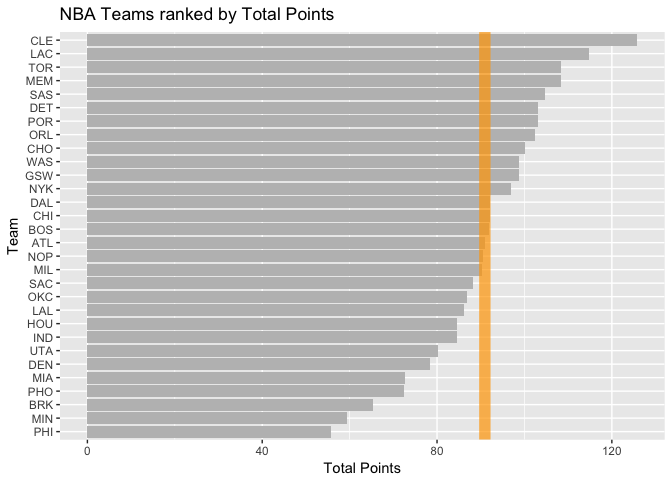
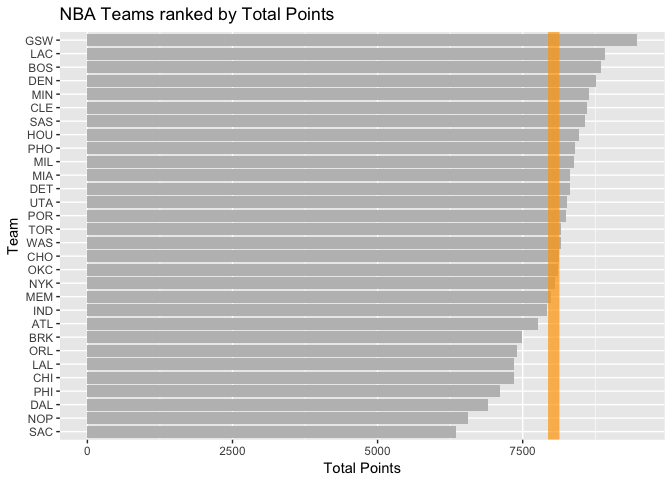
Finished hw03

diff --git a/hw03/report/hw03-Matt-Brennan.md b/hw03/report/hw03-Matt-Brennan.md
@@ -107,7 +107,7 @@ ggplot(teams, aes(reorder(team, salary), salary)) + geom_bar(stat = 'identity', 
 ![](hw03-Matt-Brennan_files/figure-markdown_github-ascii_identifiers/unnamed-chunk-3-1.png)
 
 ``` r
-ggplot(teams, aes(reorder(team, salary), salary)) + geom_bar(stat = 'identity', fill = "gray")+geom_hline(yintercept=mean(teams$salary), color = 'orange', size = 4, alpha = .7) +coord_flip() + labs(x = "Team", y = "Total Points", title = "NBA Teams ranked by Total Points")
+ggplot(teams, aes(reorder(team, points), points)) + geom_bar(stat = 'identity', fill = "gray")+geom_hline(yintercept=mean(teams$points), color = 'orange', size = 4, alpha = .7) +coord_flip() + labs(x = "Team", y = "Total Points", title = "NBA Teams ranked by Total Points")
 ```
 
 ![](hw03-Matt-Brennan_files/figure-markdown_github-ascii_identifiers/unnamed-chunk-4-1.png) \#barplot with effieciency
